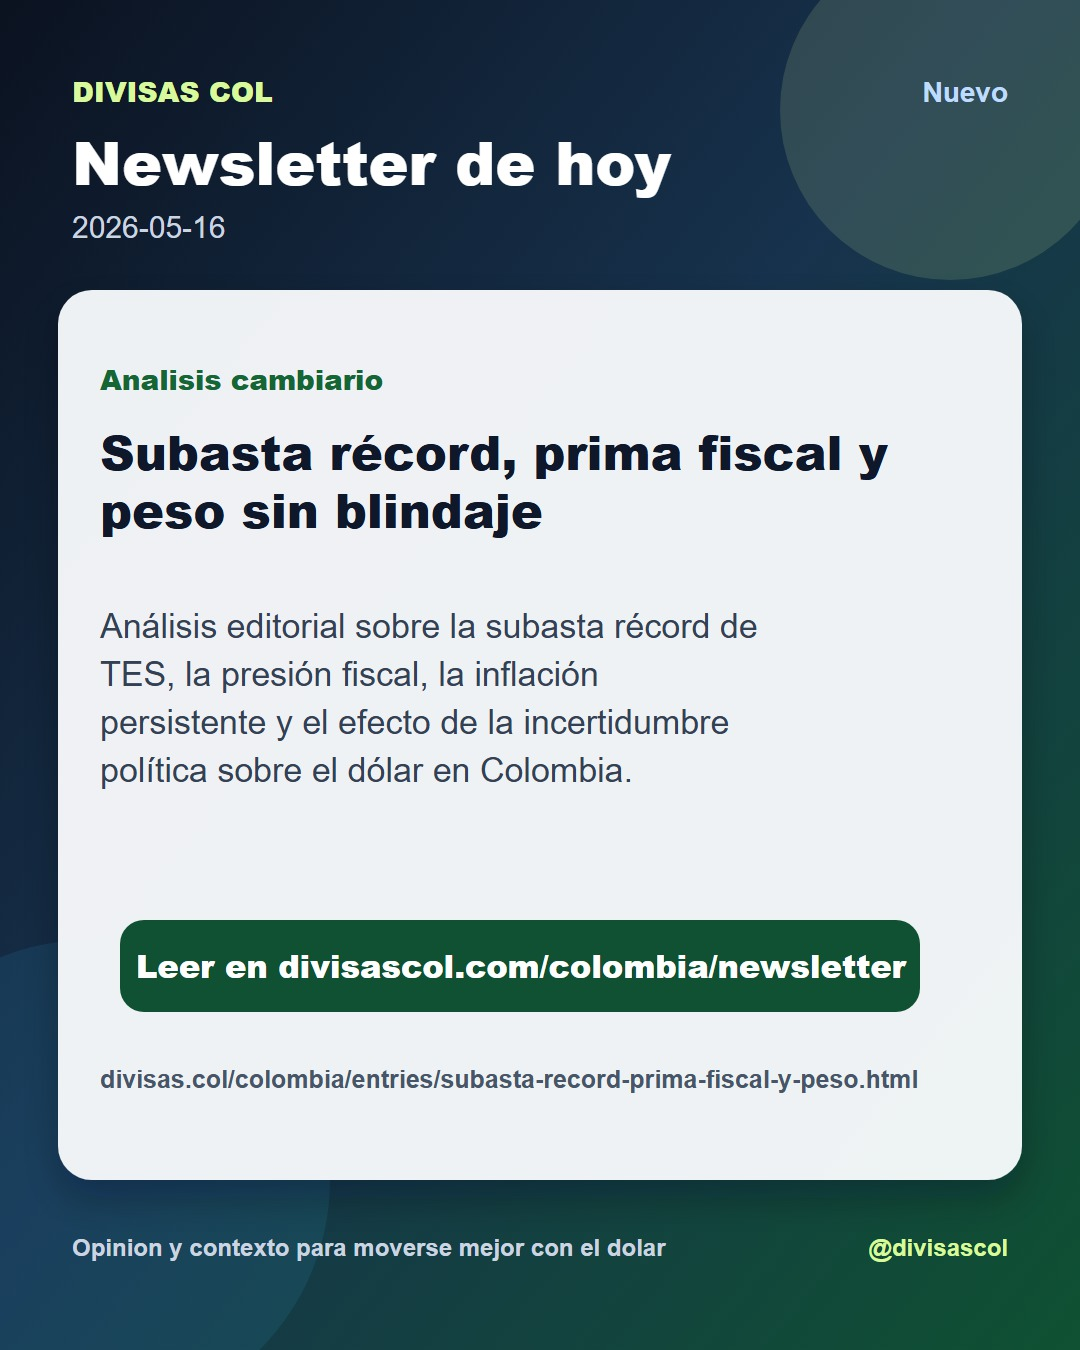
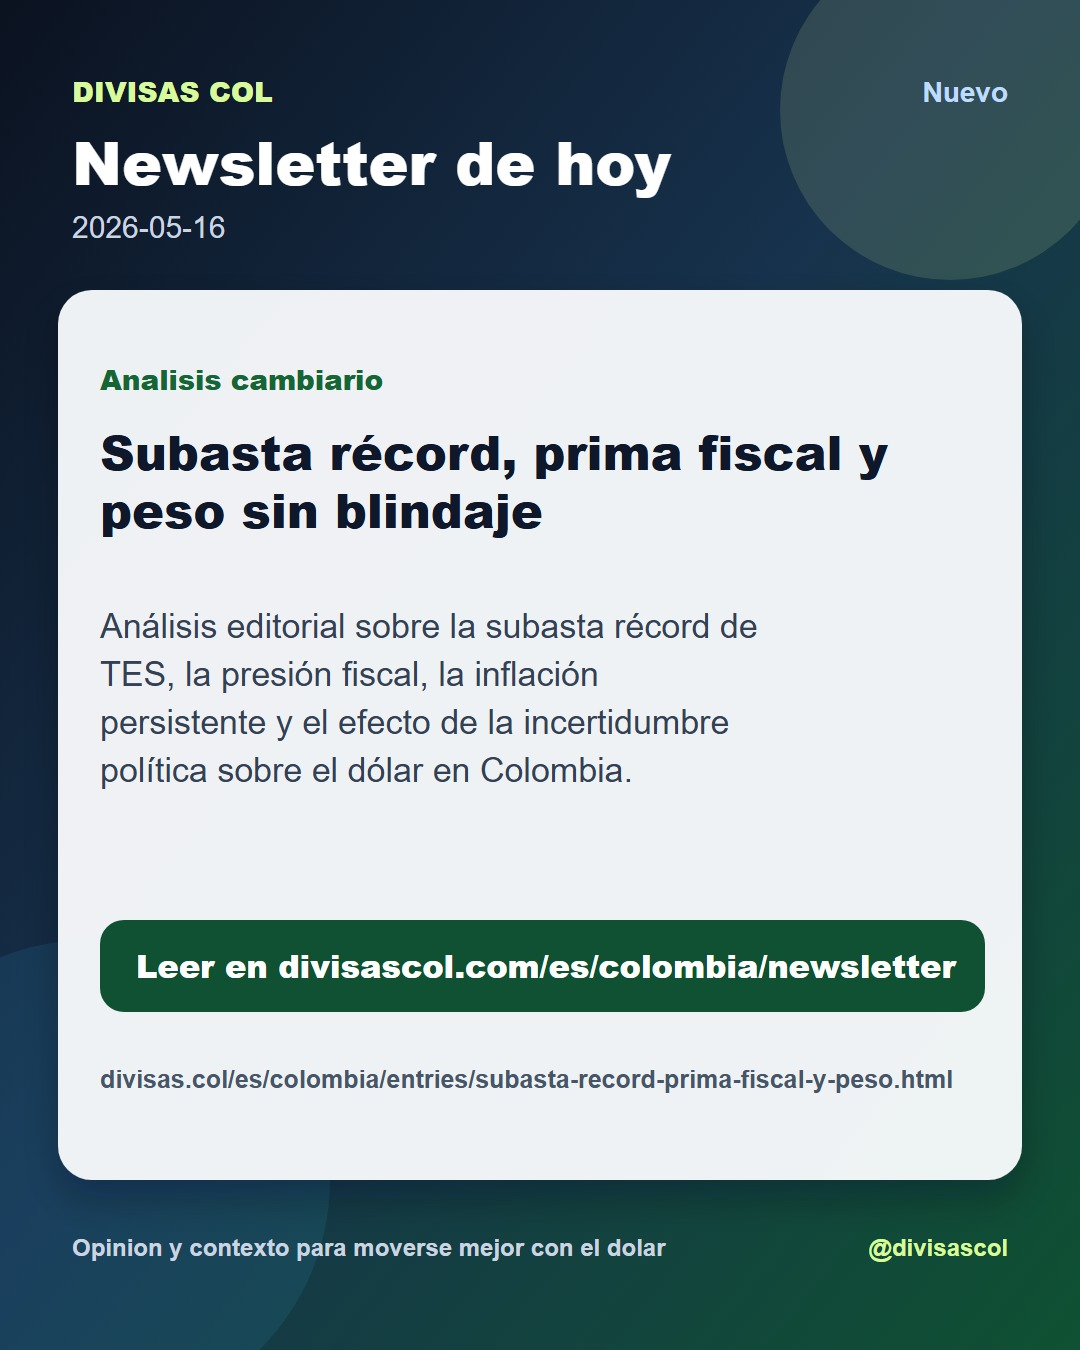
insta cards

diff --git a/generate_instagram_cards.py b/generate_instagram_cards.py
@@ -516,8 +516,8 @@ def render_newsletter_card(entry, date_label):
     cta_y = summary_y + line_count * 48 + 90
     parts.extend(
         [
-            f'<rect x="120" y="{cta_y}" width="800" height="92" rx="24" fill="#0f5132"/>',
-            svg_text(136, cta_y + 58, "Leer en divisascol.com/colombia/newsletter", 32, 800, "#ffffff"),
+            f'<rect x="100" y="{cta_y}" width="885" height="92" rx="24" fill="#0f5132"/>',
+            svg_text(136, cta_y + 58, "Leer en divisascol.com/es/colombia/newsletter", 32, 800, "#ffffff"),
             svg_text(100, 1088, "divisas.col/" + entry.get("url", "colombia/newsletter/"), 25, 600, "#475569"),
             svg_text(72, 1256, "Opinion y contexto para moverse mejor con el dolar", 24, 600, "#cbd5e1"),
             svg_text(1008, 1256, "@divisascol", 24, 700, "#d9f99d", "end"),
@@ -689,7 +689,7 @@ def main():
     day_dir.mkdir(parents=True, exist_ok=True)
 
     result = load_json(html_dir / "result.json")
-    entries_path = html_dir / "colombia" / "entries.json"
+    entries_path = html_dir / "es" / "colombia" / "entries.json"
     entries = load_json(entries_path) if entries_path.exists() else []
     hashtags = load_hashtag_template(repo_root)
 

diff --git a/divisas_voiceover_xtts_clean/generate_voiceover.py b/divisas_voiceover_xtts_clean/generate_voiceover.py
@@ -6,9 +6,9 @@ CURRENT_DIR = Path(__file__).resolve().parent
 SRC_DIR = CURRENT_DIR / "src"
 sys.path.insert(0, str(SRC_DIR))
 
-from extract_article import extract_article, save_article_json
-from build_script import build_voiceover_script, split_script_into_chunks, save_text
-from audio_merge import merge_wavs, export_mp3
+from src.extract_article import extract_article, save_article_json
+from src.build_script import build_voiceover_script, split_script_into_chunks, save_text
+from src.audio_merge import merge_wavs, export_mp3
 
 
 def split_line_to_limit(line: str, max_chars: int) -> list[str]:
@@ -127,9 +127,9 @@ def main() -> None:
         return
 
     print("Loading XTTS model. First run may download model files.")
-    from tts_xtts import XTTSVoiceover
+    from src.tts_xtts import XTTSVoiceover
     engine = XTTSVoiceover(use_gpu=args.gpu)
-    
+
     wav_files = []
 
     for index, chunk in enumerate(chunks, start=1):
